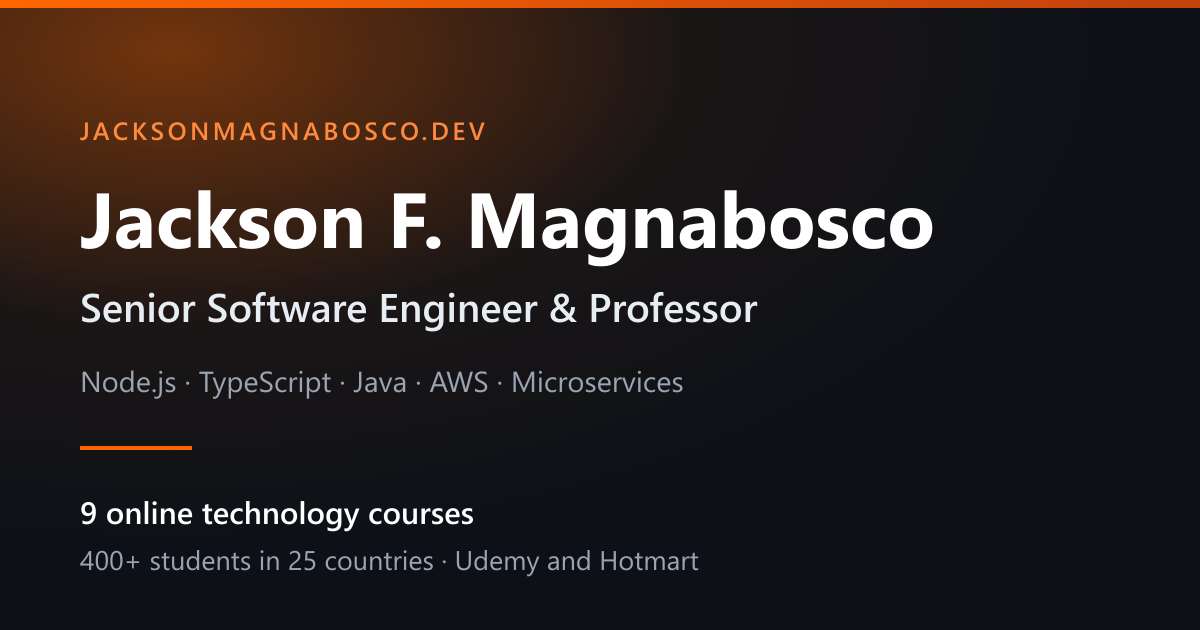
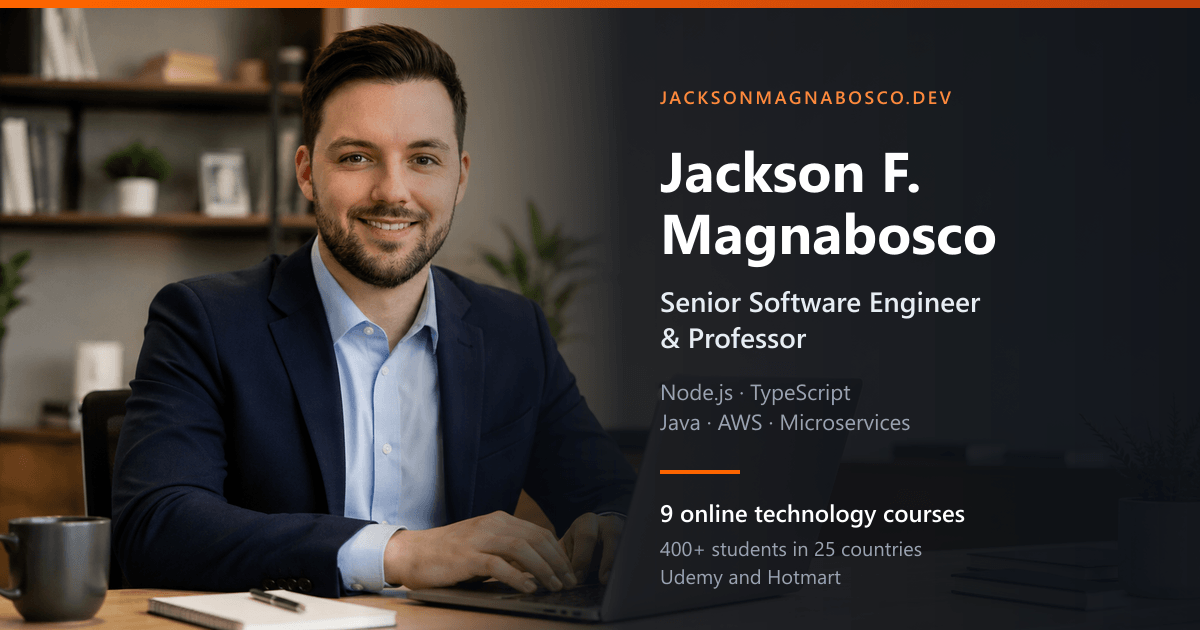
Ajustando novo portifolio

diff --git a/scripts/build-og-image.js b/scripts/build-og-image.js
@@ -12,6 +12,10 @@
  * diretorio inteiro para WebP e apagaria o PNG, que e o formato com melhor
  * compatibilidade entre as plataformas sociais.
  *
+ * O card da home usa a foto assets/_src/perfil-02.png como fundo: a pessoa
+ * ocupa a esquerda e a parede vazia da direita recebe o texto sobre um scrim
+ * escuro. As fontes ficam em assets/_src (fora do walk do npm run images).
+ *
  *   npm run og
  */
 const fs = require('fs');
@@ -20,6 +24,7 @@ const sharp = require('sharp');
 
 const ROOT = path.resolve(__dirname, '..');
 const DIR = path.join(ROOT, 'assets/social');
+const SRC = path.join(ROOT, 'assets/_src');
 
 const W = 1200;
 const H = 630;
@@ -30,11 +35,14 @@ const FONT = 'Segoe UI, Noto Sans, DejaVu Sans, Arial, Helvetica, sans-serif';
 const CARDS = [
   {
     file: 'og-cover.png',
-    title: 'Jackson F. Magnabosco',
-    subtitle: 'Senior Software Engineer &amp; Professor',
-    tech: 'Node.js  ·  TypeScript  ·  Java  ·  AWS  ·  Microservices',
+    photo: 'perfil-02.png',
+    /* O painel de texto ocupa so a parede vazia da direita, entao title,
+       subtitle e tech quebram em linhas curtas em vez de uma linha longa. */
+    titleLines: ['Jackson F.', 'Magnabosco'],
+    subtitleLines: ['Senior Software Engineer', '&amp; Professor'],
+    techLines: ['Node.js  ·  TypeScript', 'Java  ·  AWS  ·  Microservices'],
     footerStrong: '9 online technology courses',
-    footerMuted: '400+ students in 25 countries  ·  Udemy and Hotmart',
+    footerMutedLines: ['400+ students in 25 countries', 'Udemy and Hotmart'],
   },
   {
     file: 'og-cursos.png',
@@ -81,13 +89,72 @@ const card = (
   </g>
 </svg>`;
 
+/* Variante sobre foto: scrim escuro cobrindo a metade direita (a parede vazia)
+   e o mesmo conteudo do card de texto, so que em coluna estreita. X = 660
+   mantem o rosto, que termina por volta de x = 490, totalmente livre. */
+const X = 660;
+
+const photoCard = (
+  c,
+) => `<svg xmlns="http://www.w3.org/2000/svg" width="${W}" height="${H}" viewBox="0 0 ${W} ${H}">
+  <defs>
+    <linearGradient id="scrim" x1="0" y1="0" x2="1" y2="0">
+      <stop offset="30%" stop-color="#0d1117" stop-opacity="0"/>
+      <stop offset="52%" stop-color="#0d1117" stop-opacity="0.88"/>
+      <stop offset="100%" stop-color="#0d1117" stop-opacity="0.96"/>
+    </linearGradient>
+    <linearGradient id="bar" x1="0" y1="0" x2="1" y2="0">
+      <stop offset="0%" stop-color="#ff6600"/>
+      <stop offset="100%" stop-color="#c2410c"/>
+    </linearGradient>
+  </defs>
+
+  <rect width="${W}" height="${H}" fill="url(#scrim)"/>
+  <rect width="${W}" height="8" fill="url(#bar)"/>
+
+  <g font-family="${FONT}">
+    <text x="${X}" y="104" fill="#ff8a3d" font-size="18" font-weight="600" letter-spacing="2.5">JACKSONMAGNABOSCO.DEV</text>
+
+    <text x="${X}" y="192" fill="#ffffff" font-size="56" font-weight="700">${c.titleLines[0]}</text>
+    <text x="${X}" y="254" fill="#ffffff" font-size="56" font-weight="700">${c.titleLines[1]}</text>
+
+    <text x="${X}" y="312" fill="#e6edf3" font-size="28" font-weight="600">${c.subtitleLines[0]}</text>
+    <text x="${X}" y="348" fill="#e6edf3" font-size="28" font-weight="600">${c.subtitleLines[1]}</text>
+
+    <text x="${X}" y="400" fill="#9aa4b2" font-size="22" font-weight="400">${c.techLines[0]}</text>
+    <text x="${X}" y="430" fill="#9aa4b2" font-size="22" font-weight="400">${c.techLines[1]}</text>
+
+    <rect x="${X}" y="470" width="80" height="4" fill="#ff6600"/>
+
+    <text x="${X}" y="522" fill="#ffffff" font-size="24" font-weight="600">${c.footerStrong}</text>
+    <text x="${X}" y="556" fill="#9aa4b2" font-size="20" font-weight="400">${c.footerMutedLines[0]}</text>
+    <text x="${X}" y="584" fill="#9aa4b2" font-size="20" font-weight="400">${c.footerMutedLines[1]}</text>
+  </g>
+</svg>`;
+
+const render = async (c) => {
+  if (!c.photo) return sharp(Buffer.from(card(c)));
+
+  const photo = path.join(SRC, c.photo);
+  if (!fs.existsSync(photo)) {
+    throw new Error(`${c.file}: foto de origem ausente em ${path.relative(ROOT, photo)}`);
+  }
+  /* cover em vez de resize simples: a origem e 1729x910 (1.900) contra os
+     1.905 do alvo, entao sobra so uma fatia de ~2px de altura para aparar. */
+  const base = await sharp(photo).resize(W, H, { fit: 'cover', position: 'centre' }).toBuffer();
+  return sharp(base).composite([{ input: Buffer.from(photoCard(c)) }]);
+};
+
 (async () => {
   fs.mkdirSync(DIR, { recursive: true });
   for (const c of CARDS) {
     const out = path.join(DIR, c.file);
-    const buffer = await sharp(Buffer.from(card(c)))
-      .png({ compressionLevel: 9 })
-      .toBuffer();
+    /* Foto em PNG truecolor da ~1 MB e o WhatsApp descarta og:image acima de
+       ~300 KB. A paleta derruba para ~200 KB sem banding perceptivel; nos
+       cards so de texto ela fica de fora, porque o gradiente do fundo e
+       justamente onde a quantizacao apareceria. */
+    const encode = c.photo ? { palette: true, quality: 100, effort: 10 } : {};
+    const buffer = await (await render(c)).png({ compressionLevel: 9, ...encode }).toBuffer();
     fs.writeFileSync(out, buffer);
     const meta = await sharp(buffer).metadata();
     console.log(
